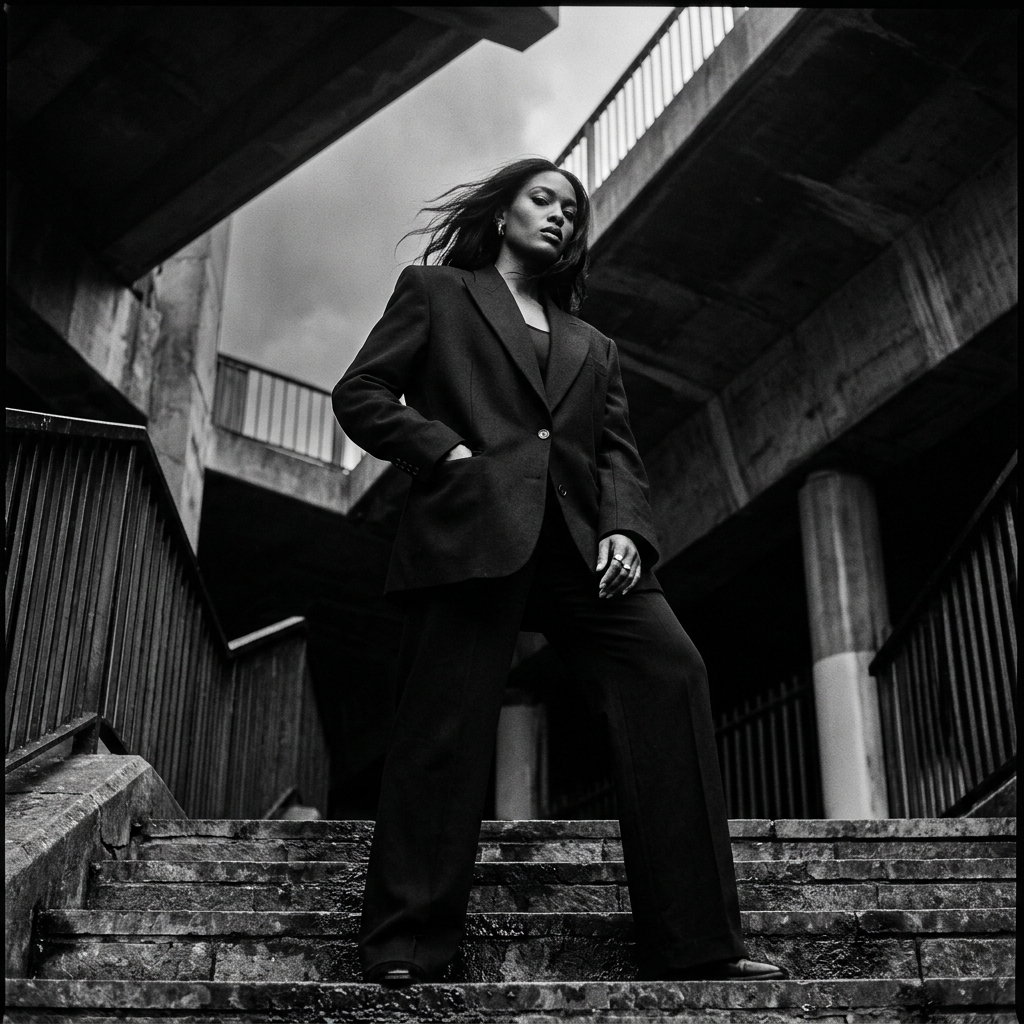
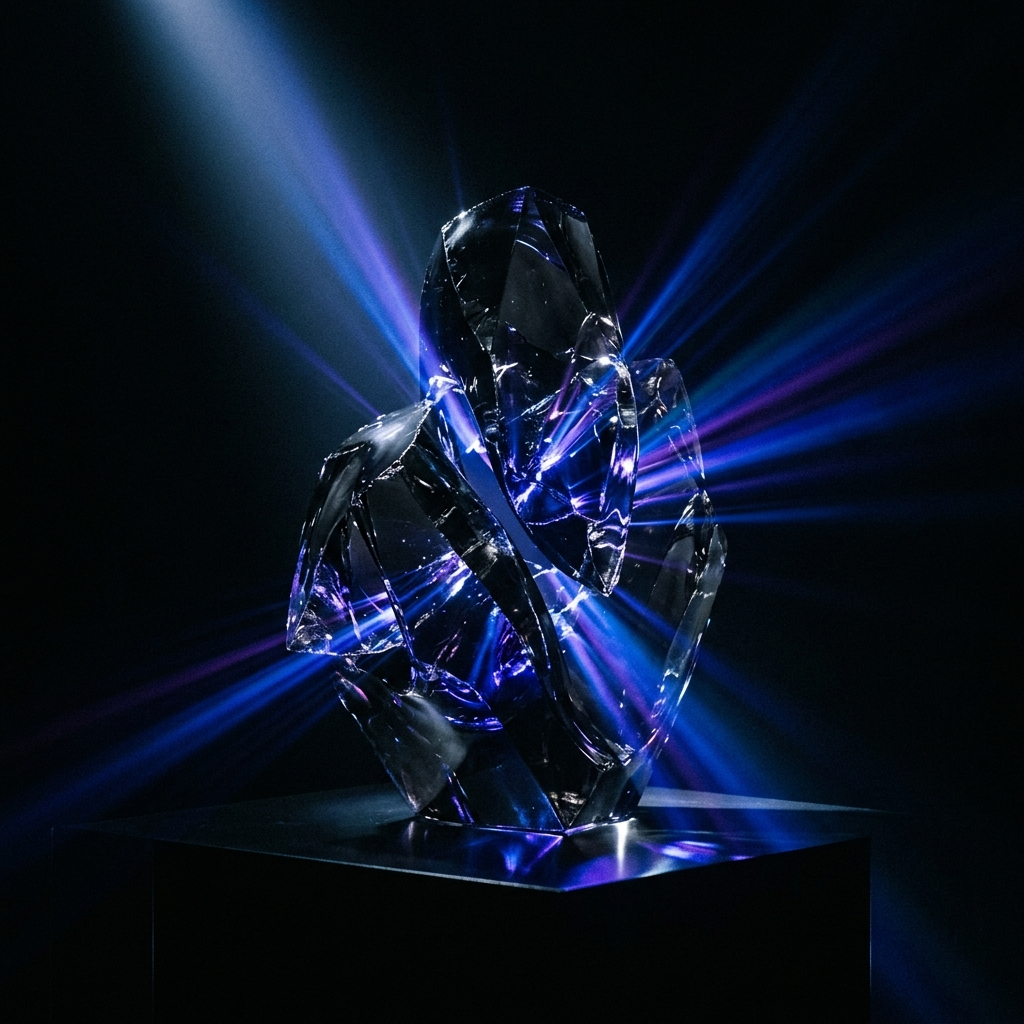
feat(hover-expand-accordion): replace images 2 & 3 with new unique designs and implement complete collapse on mouse leave

diff --git a/src/components/components-elements/HoverExpandAccordionElement.tsx b/src/components/components-elements/HoverExpandAccordionElement.tsx
@@ -79,10 +79,13 @@ const springTransition = {
 };
 
 export default function HoverExpandAccordionElement() {
-  const [hoveredId, setHoveredId] = useState<string | null>("velvet");
+  const [hoveredId, setHoveredId] = useState<string | null>(null);
 
   return (
-    <div className="w-full h-full flex bg-[#090909] select-none overflow-hidden p-1 sm:p-2 border border-white/5 rounded-2xl relative">
+    <div 
+      onMouseLeave={() => setHoveredId(null)}
+      className="w-full h-full flex bg-[#090909] select-none overflow-hidden p-1 sm:p-2 border border-white/5 rounded-2xl relative"
+    >
       <div className="flex w-full h-full gap-0.5 sm:gap-1.5 overflow-hidden">
         {items.map((item) => {
           const isExpanded = hoveredId === item.id;